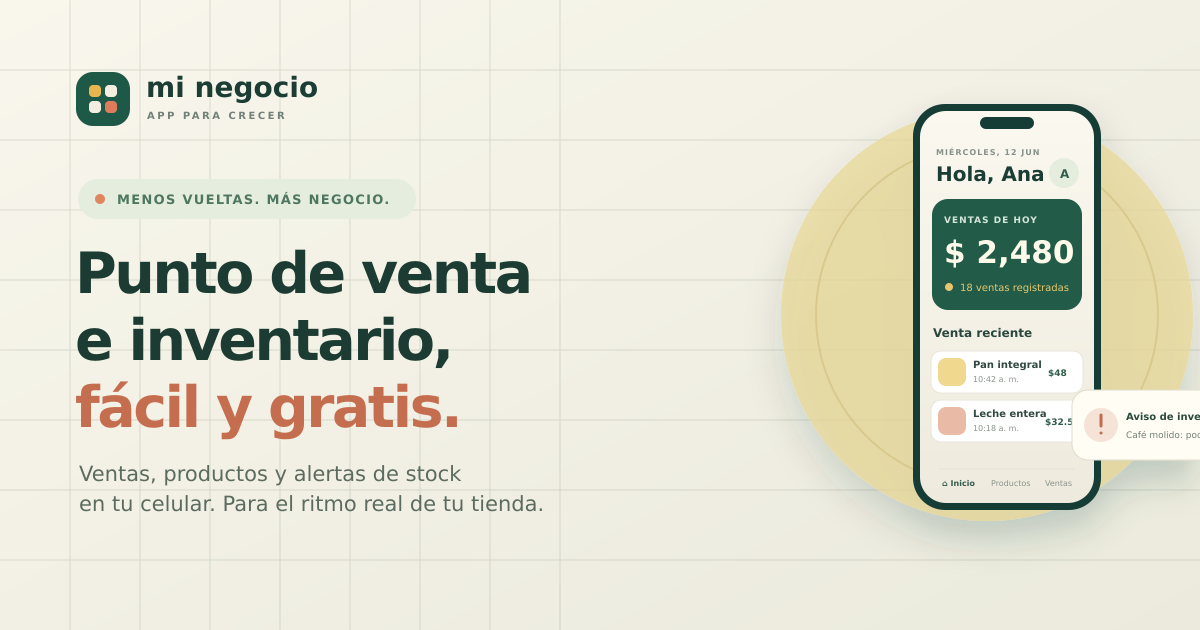
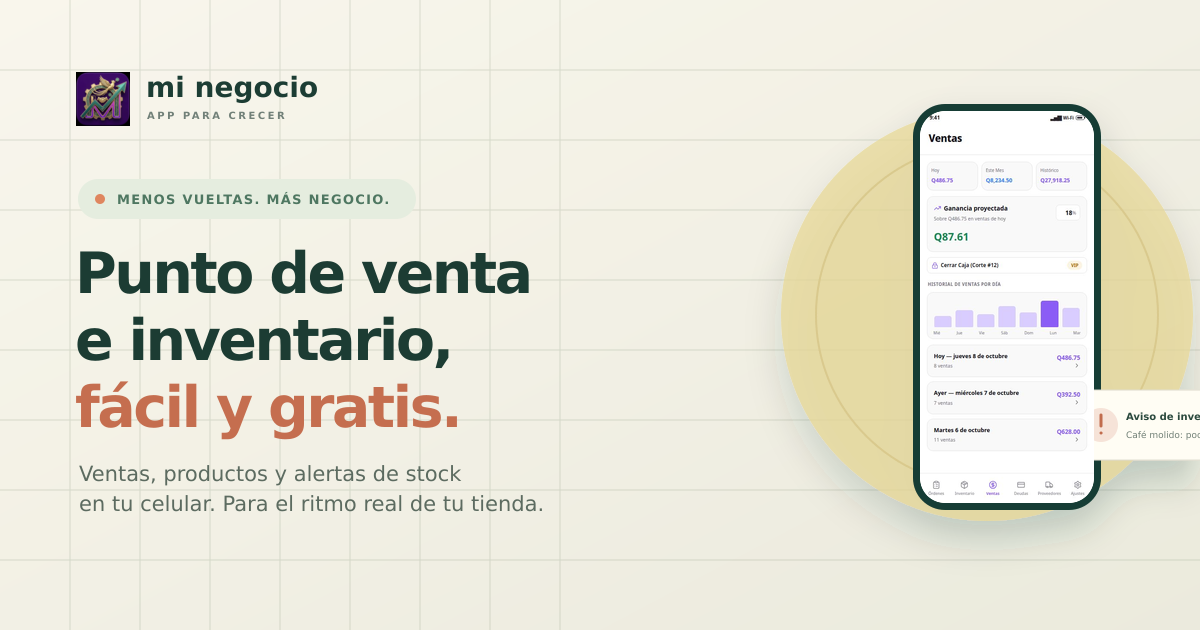
Update landing page assets and components
Replit-Commit-Author: Agent

Changed region(s): [[0.74, 0.2111, 0.925, 0.8143], [0.0617, 0.0905, 0.1233, 0.2111], [0.8017, 0.181, 0.8942, 0.2111]]

diff --git a/artifacts/mi-negocio-landing/src/App.tsx b/artifacts/mi-negocio-landing/src/App.tsx
@@ -7,7 +7,6 @@ import {
   ChevronDown,
   ChevronLeft,
   ChevronRight,
-  CircleDollarSign,
   Menu,
   Package,
   ShoppingBasket,
@@ -110,14 +109,14 @@ const questions = [
 function BrandMark() {
   return (
     <a href="#inicio" className="flex items-center gap-3" aria-label="Mi Negocio App, inicio">
-      <span className="grid h-10 w-10 place-items-center rounded-[14px] bg-[#1e5948] text-[#f7f1df]">
-        <span className="relative block h-[19px] w-[19px]">
-          <span className="absolute left-0 top-0 h-[8px] w-[8px] rounded-[3px] bg-[#e8b64e]" />
-          <span className="absolute right-0 top-0 h-[8px] w-[8px] rounded-[3px] bg-[#f3eee0]" />
-          <span className="absolute bottom-0 left-0 h-[8px] w-[8px] rounded-[3px] bg-[#f3eee0]" />
-          <span className="absolute bottom-0 right-0 h-[8px] w-[8px] rounded-[3px] bg-[#df7b5d]" />
-        </span>
-      </span>
+      <img
+        src="/app-icon.png"
+        alt=""
+        width={512}
+        height={512}
+        aria-hidden="true"
+        className="h-10 w-10 rounded-[14px] object-contain"
+      />
       <span className="leading-none">
         <span className="block font-semibold tracking-[-.04em] text-[#1c3d34]">mi negocio</span>
         <span className="mt-1 block text-[10px] font-bold uppercase tracking-[.19em] text-[#718078]">app para crecer</span>
@@ -230,10 +229,9 @@ function App() {
         <div className="relative mx-auto mt-16 flex h-[460px] w-full max-w-[610px] items-center justify-center md:mt-0 md:h-[600px]">
           <div className="absolute left-1/2 top-1/2 h-[380px] w-[380px] -translate-x-1/2 -translate-y-1/2 rounded-full bg-[#e7d894]/50 md:h-[500px] md:w-[500px]" />
           <div className="grain absolute left-1/2 top-1/2 h-[315px] w-[315px] -translate-x-1/2 -translate-y-1/2 rounded-full border border-[#d9c98d] md:h-[410px] md:w-[410px]" />
-          <div className="absolute left-[7%] top-[19%] z-10 hidden rounded-[18px] border border-[#e2ddcd] bg-[#fffdf4] px-4 py-3 shadow-[0_14px_35px_rgba(31,61,50,.1)] sm:block">
-            <div className="flex items-center gap-2 text-[10px] font-bold uppercase tracking-[.1em] text-[#7b897e]"><span className="grid h-7 w-7 place-items-center rounded-[9px] bg-[#f8e6c5] text-[#bd754b]"><CircleDollarSign size={15} /></span> Venta de hoy</div>
-            <p className="display mt-2 text-[22px] font-extrabold text-[#1d493b]">$ 2,480</p>
-            <p className="text-[10px] text-[#738175]">18 movimientos registrados</p>
+          <div className="absolute left-[7%] top-[19%] z-10 hidden w-[145px] rounded-[15px] border border-[#e5e5e5] bg-[#fafafa] px-3 py-2.5 shadow-[0_8px_20px_rgba(34,34,34,.07)] sm:block">
+            <p className="text-[11px] font-medium leading-tight text-[#777777]">Hoy</p>
+            <p className="mt-1.5 text-[15px] font-bold leading-tight tracking-[-.02em] text-[#8957e7]">Q486.75</p>
           </div>
           <div className="absolute bottom-[15%] right-[2%] z-20 hidden w-[190px] rounded-[18px] border border-[#dfdccf] bg-[#fffdf4] p-3.5 shadow-[0_14px_35px_rgba(31,61,50,.1)] sm:block">
             <div className="flex items-center gap-2">

diff --git a/artifacts/mi-negocio-landing/index.html b/artifacts/mi-negocio-landing/index.html
@@ -20,7 +20,8 @@
     <meta name="twitter:description" content="Administra tu negocio desde tu celular. Registra ventas, gestiona inventario con alertas de stock y controla a tus proveedores de forma fácil y gratis." />
     <meta name="twitter:image" content="/og-mi-negocio.png" />
     <meta name="twitter:image:alt" content="Mi Negocio App: punto de venta y control de inventarios desde tu celular" />
-    <link rel="icon" type="image/svg+xml" href="/favicon.svg" />
+    <link rel="icon" type="image/png" sizes="512x512" href="/app-icon.png" />
+    <link rel="apple-touch-icon" href="/app-icon.png" />
     <link rel="preconnect" href="https://fonts.googleapis.com">
     <link rel="preconnect" href="https://fonts.gstatic.com" crossorigin>
     <script type="application/ld+json">
